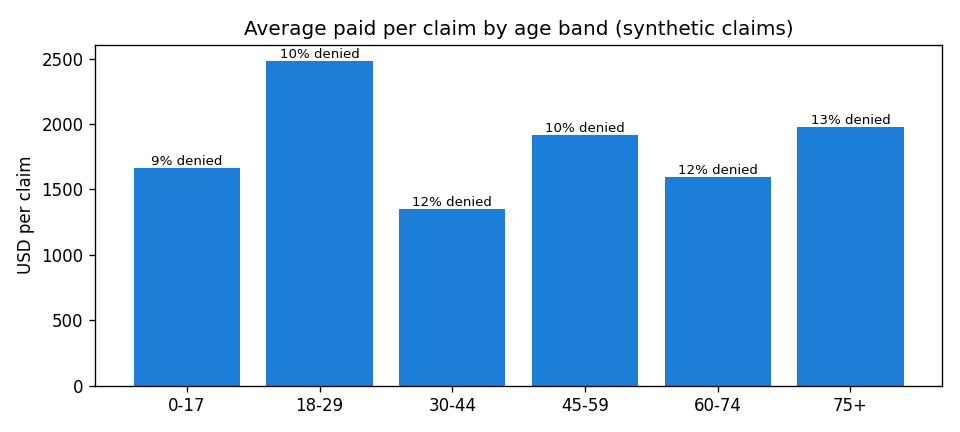
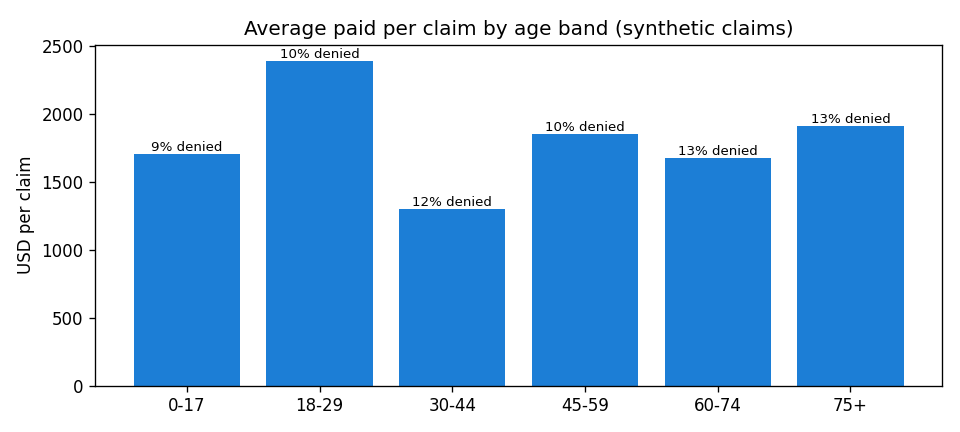
Add paid-amount concentration view (top 1/5/10% of claims); new batches

diff --git a/tests/test_pipeline.py b/tests/test_pipeline.py
@@ -297,3 +297,37 @@ def test_outlier_section_renders_both_states():
          "overall_rate": 0.1, "z": 5.2}])
     assert "| HMO | 2026-10 | 100 | 40.0% | 10.0% | +5.20 |" in md and "not a finding" in md
     assert "No plan/month cells" in report.render_markdown([], [], [], 0, outliers=[])
+
+
+def test_paid_concentration_math(tmp_path):
+    pipe = Pipeline(tmp_path / "c.csv")
+    paid = [1000] + [10] * 99                               # 100 claims, total 1990
+    pipe.ingest([make_valid(f"CLM-{i}", billed_amount=2000, allowed_amount=1500, paid_amount=p)
+                 for i, p in enumerate(paid)])
+    out = pipe.paid_concentration()
+    assert out["claims"] == 100 and out["total_paid"] == 1990.0
+    tiers = {t["top_pct"]: t for t in out["tiers"]}
+    assert tiers[0.01]["claims"] == 1 and tiers[0.01]["share_of_paid"] == 0.5025   # 1000/1990
+    assert tiers[0.05]["claims"] == 5 and tiers[0.05]["share_of_paid"] == 0.5226   # 1040/1990
+    assert tiers[0.10]["claims"] == 10
+
+
+def test_paid_concentration_tiny_and_empty_stores(tmp_path):
+    assert Pipeline(tmp_path / "e.csv").paid_concentration()["tiers"] == []
+    pipe = Pipeline(tmp_path / "one.csv")
+    pipe.ingest([make_valid("CLM-1", paid_amount=60)])
+    out = pipe.paid_concentration()
+    assert [t["claims"] for t in out["tiers"]] == [1, 1, 1]       # at least one claim per tier
+    assert all(t["share_of_paid"] == 1.0 for t in out["tiers"])
+    pipe2 = Pipeline(tmp_path / "den.csv")
+    pipe2.ingest([make_valid("CLM-D", paid_amount=0, allowed_amount=0, status="denied",
+                             denial_reason="duplicate claim")])
+    assert pipe2.paid_concentration()["tiers"] == []              # zero total: no division
+
+
+def test_concentration_section_renders():
+    from healthdata import report
+    md = report.render_markdown([], [], [], 0, concentration={
+        "claims": 100, "total_paid": 1990.0,
+        "tiers": [{"top_pct": 0.01, "claims": 1, "share_of_paid": 0.5025}]})
+    assert "| top 1% | 1 | 50.2% |" in md or "| top 1% | 1 | 50.3% |" in md

diff --git a/src/healthdata/report.py b/src/healthdata/report.py
@@ -20,7 +20,8 @@ def render_markdown(monthly: list[dict], denial_reasons: list[tuple[str, int]],
                     duplicates: list[dict] | None = None,
                     trend: list[dict] | None = None,
                     cost_sharing: list[dict] | None = None,
-                    outliers: list[dict] | None = None) -> str:
+                    outliers: list[dict] | None = None,
+                    concentration: dict | None = None) -> str:
     generated_at = generated_at or dt.datetime.now(dt.timezone.utc)
     total_paid = sum(m["paid"] for m in monthly)
     total_billed = sum(m["billed"] for m in monthly)
@@ -79,6 +80,13 @@ def render_markdown(monthly: list[dict], denial_reasons: list[tuple[str, int]],
                              f"{o['overall_rate']:.1%} | {o['z']:+.2f} |")
         else:
             lines += ["", "No plan/month cells outside the screen."]
+    if concentration and concentration.get("tiers"):
+        lines += ["", "## Paid-amount concentration", "",
+                  f"Share of total paid ({concentration['claims']} claims) held by the largest claims. "
+                  "Synthetic data, illustrative.", "",
+                  "| Top claims | Count | Share of paid |", "| --- | ---: | ---: |"]
+        for t in concentration["tiers"]:
+            lines.append(f"| top {t['top_pct']:.0%} | {t['claims']} | {t['share_of_paid']:.1%} |")
     if procedures:
         lines += ["", "## Top procedures by paid amount", "",
                   "| Code | Claims | Avg billed | Paid | Denial rate |",

diff --git a/src/healthdata/pipeline.py b/src/healthdata/pipeline.py
@@ -183,6 +183,25 @@ class Pipeline:
                             "z": round(score, 2)})
         return sorted(out, key=lambda r: (-abs(r["z"]), r["plan"], r["month"]))
 
+    def paid_concentration(self, tiers=(0.01, 0.05, 0.10)) -> dict:
+        """Share of total paid dollars held by the top X% of claims (by paid).
+
+        Classic insurance concentration view: a few large claims usually
+        carry a big share of spend. Each tier takes ceil(n * pct) claims, at
+        least one. Synthetic data, illustrative."""
+        import math
+
+        paid = sorted((float(r["paid_amount"] or 0) for r in self.load_store().values()), reverse=True)
+        total = sum(paid)
+        out = {"claims": len(paid), "total_paid": round(total, 2), "tiers": []}
+        if not paid or total <= 0:
+            return out
+        for pct in tiers:
+            k = max(1, math.ceil(len(paid) * pct))
+            out["tiers"].append({"top_pct": pct, "claims": k,
+                                 "share_of_paid": round(sum(paid[:k]) / total, 4)})
+        return out
+
     def procedure_summary(self, top: int = 5) -> list[dict]:
         """Top procedure codes by total paid, with claim count, average billed
         and denial rate. Illustrative synthetic metrics."""

diff --git a/scripts/daily_update.py b/scripts/daily_update.py
@@ -54,6 +54,7 @@ def main() -> int:
                                plan_perf=pipe.plan_performance(),
                                cost_sharing=pipe.plan_cost_sharing(),
                                outliers=pipe.denial_rate_outliers(),
+                               concentration=pipe.paid_concentration(),
                                procedures=pipe.procedure_summary(),
                                utilization=pipe.high_utilizers(),
                                age_bands=pipe.age_band_costs(),

diff --git a/reports/claims_report.md b/reports/claims_report.md
@@ -1,8 +1,8 @@
 # Healthcare Data - claims pipeline report
 
-Generated 2026-11-19 10:11 UTC. All data is synthetic - no real member, patient or plan information.
+Generated 2026-11-19 15:12 UTC. All data is synthetic - no real member, patient or plan information.
 
-**2120 claims** in store. Billed $6,663,250, paid $3,876,316, denied 232 overall.
+**2240 claims** in store. Billed $6,921,161, paid $4,041,193, denied 244 overall.
 
 ## Monthly financials
 
@@ -20,31 +20,31 @@ Generated 2026-11-19 10:11 UTC. All data is synthetic - no real member, patient 
 | 2026-08 | 50 | $87,251 | $70,911 | $55,220 | 18.0% |
 | 2026-09 | 28 | $97,162 | $80,729 | $53,482 | 7.1% |
 | 2026-10 | 47 | $71,505 | $55,063 | $42,442 | 8.5% |
-| 2026-11 | 1641 | $5,393,287 | $4,175,638 | $3,084,867 | 11.2% |
+| 2026-11 | 1761 | $5,651,199 | $4,387,054 | $3,249,744 | 11.0% |
 
 ## Denial reasons
 
-- duplicate claim (55)
+- duplicate claim (57)
 - not medically necessary (49)
+- missing prior authorization (47)
 - timely filing exceeded (46)
-- out-of-network provider (44)
-- missing prior authorization (39)
+- out-of-network provider (45)
 
 ## Plan mix
 
-- HMO: 563
-- PPO: 548
-- EPO: 512
-- HDHP: 497
+- HMO: 589
+- PPO: 579
+- HDHP: 538
+- EPO: 534
 
 ## Plan performance
 
 | Plan | Claims | Denial rate | Paid / billed |
 | --- | ---: | ---: | ---: |
-| HMO | 563 | 8.5% | 62.3% |
-| PPO | 548 | 12.4% | 54.6% |
-| EPO | 512 | 13.7% | 54.8% |
-| HDHP | 497 | 9.5% | 60.9% |
+| HMO | 589 | 8.7% | 62.4% |
+| PPO | 579 | 11.7% | 55.5% |
+| HDHP | 538 | 9.3% | 60.6% |
+| EPO | 534 | 14.0% | 55.0% |
 
 ## Cost sharing by plan (non-denied claims)
 
@@ -52,10 +52,10 @@ Network discount = 1 - allowed/billed. Member cost share = (allowed - paid)/allo
 
 | Plan | Claims | Network discount | Member cost share |
 | --- | ---: | ---: | ---: |
-| HMO | 515 | 21.2% | 15.3% |
-| PPO | 480 | 23.2% | 15.3% |
-| EPO | 442 | 23.6% | 14.8% |
-| HDHP | 450 | 22.9% | 14.6% |
+| HMO | 538 | 21.2% | 15.2% |
+| PPO | 511 | 22.7% | 15.2% |
+| EPO | 459 | 23.3% | 14.9% |
+| HDHP | 488 | 22.7% | 14.7% |
 
 ## Denial-rate outliers (plan x month)
 
@@ -63,27 +63,37 @@ Cells whose denial rate is at least 2 standard errors from the overall rate (cel
 
 | Plan | Month | Claims | Denial rate | Overall | z |
 | --- | --- | ---: | ---: | ---: | ---: |
-| HMO | 2026-11 | 430 | 7.4% | 11.0% | -2.35 |
-| EPO | 2026-11 | 392 | 14.3% | 11.0% | +2.09 |
+| EPO | 2026-11 | 414 | 14.7% | 10.9% | +2.51 |
+| HMO | 2026-11 | 456 | 7.7% | 10.9% | -2.21 |
+
+## Paid-amount concentration
+
+Share of total paid (2240 claims) held by the largest claims. Synthetic data, illustrative.
+
+| Top claims | Count | Share of paid |
+| --- | ---: | ---: |
+| top 1% | 23 | 13.9% |
+| top 5% | 112 | 55.4% |
+| top 10% | 224 | 86.4% |
 
 ## Top procedures by paid amount
 
 | Code | Claims | Avg billed | Paid | Denial rate |
 | --- | ---: | ---: | ---: | ---: |
-| 27447 | 229 | $24,955 | $3,333,748 | 11.3% |
-| 43239 | 220 | $2,038 | $254,133 | 12.7% |
-| 99285 | 218 | $1,065 | $128,214 | 14.7% |
-| 70450 | 208 | $661 | $83,301 | 7.2% |
-| 99214 | 207 | $166 | $19,903 | 11.6% |
+| 27447 | 238 | $24,831 | $3,465,329 | 11.3% |
+| 43239 | 238 | $2,045 | $272,888 | 13.5% |
+| 99285 | 228 | $1,069 | $134,863 | 14.5% |
+| 70450 | 216 | $660 | $86,353 | 7.4% |
+| 99214 | 218 | $165 | $20,971 | 11.5% |
 
 ## Member utilization
 
-198 of 1283 synthetic members have 3+ claims and account for 32.6% of paid dollars.
+220 of 1329 synthetic members have 3+ claims and account for 33.9% of paid dollars.
 
 | Member | Claims | Paid |
 | --- | ---: | ---: |
+| MBR-0693 | 6 | $30,518 |
 | MBR-0136 | 6 | $1,569 |
-| MBR-0693 | 5 | $28,409 |
 | MBR-0471 | 5 | $28,036 |
 | MBR-0939 | 5 | $27,251 |
 | MBR-1424 | 5 | $14,713 |
@@ -92,9 +102,9 @@ Cells whose denial rate is at least 2 standard errors from the overall rate (cel
 
 | Plan | Denials | Top reason | Count |
 | --- | ---: | --- | ---: |
-| EPO | 70 | duplicate claim | 20 |
-| HDHP | 47 | out-of-network provider | 13 |
-| HMO | 48 | not medically necessary | 12 |
+| EPO | 75 | duplicate claim | 20 |
+| HDHP | 50 | out-of-network provider | 13 |
+| HMO | 51 | missing prior authorization | 12 |
 | PPO | 68 | timely filing exceeded | 21 |
 
 ## Month-over-month trend (last 6 complete months)
@@ -110,7 +120,7 @@ Cells whose denial rate is at least 2 standard errors from the overall rate (cel
 
 ## Potential duplicate services
 
-24 groups share a member, procedure and service date (review queue, not a quality failure).
+27 groups share a member, procedure and service date (review queue, not a quality failure).
 
 | Member | Procedure | Date | Claims | Paid |
 | --- | --- | --- | ---: | ---: |
